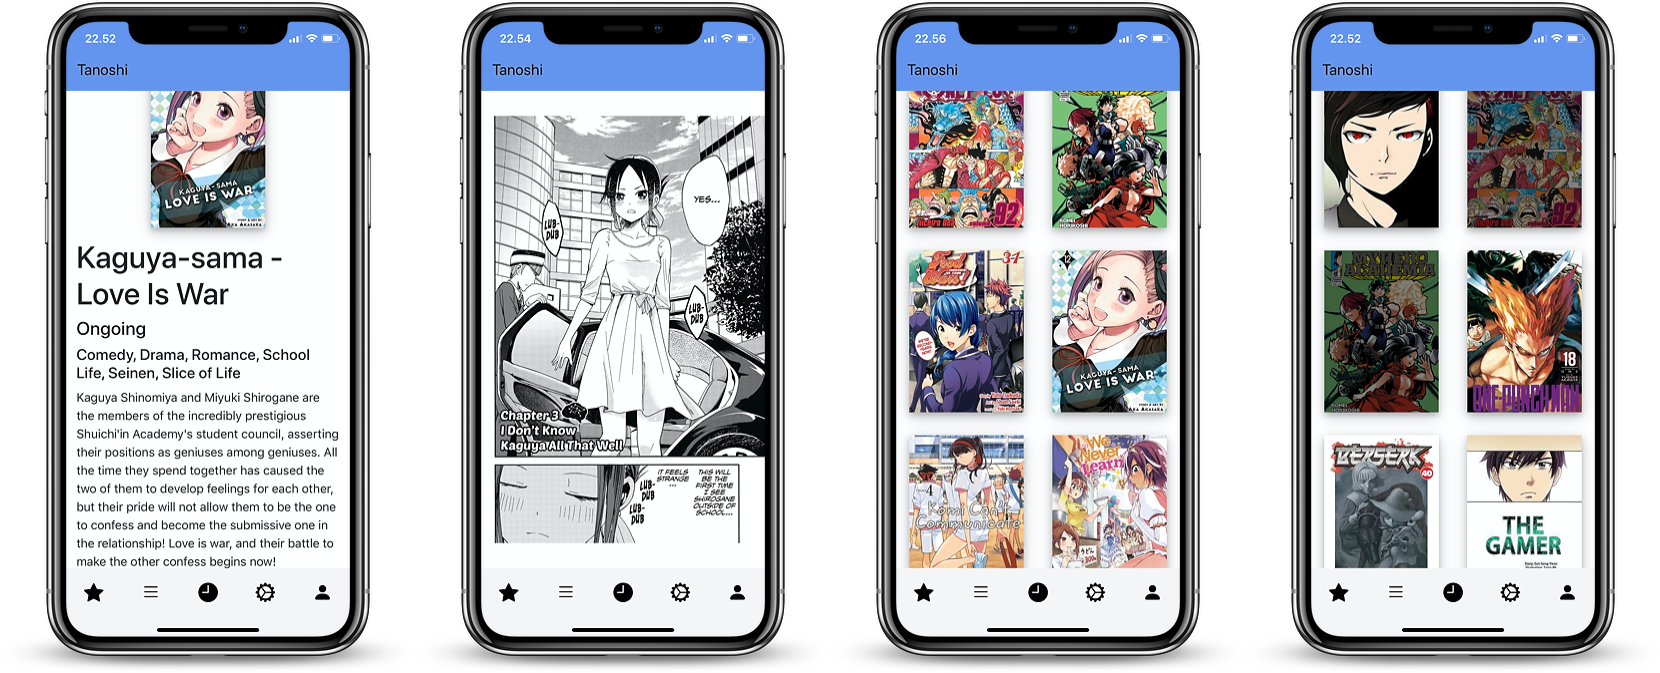
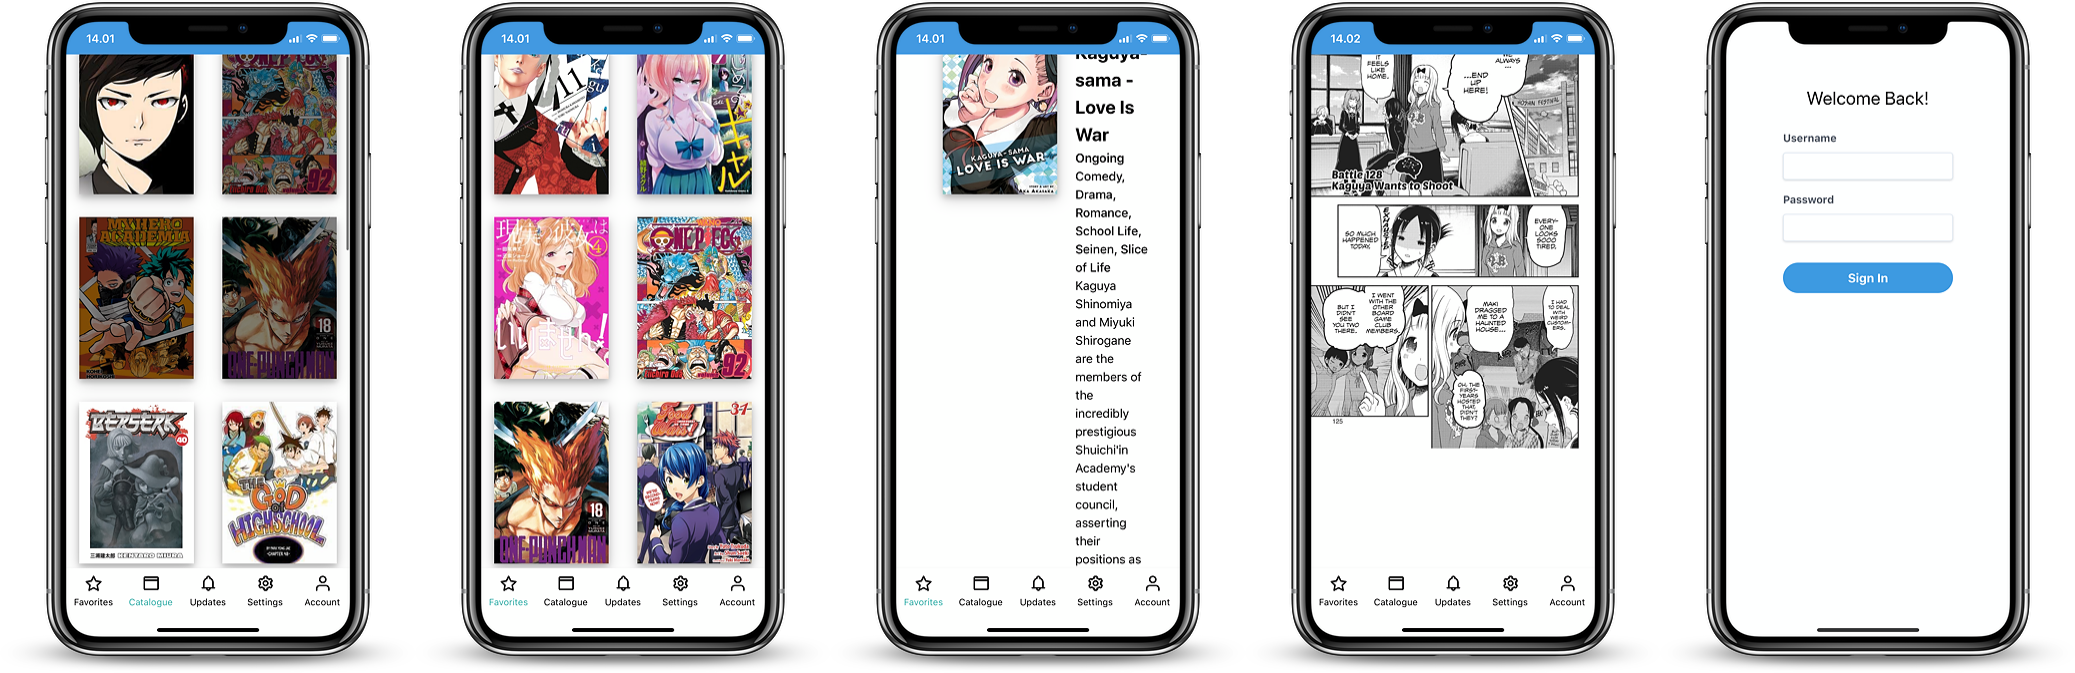
update mobile screenshot

diff --git a/styles.css b/styles.css
@@ -166,3 +166,8 @@ body {
 .safe-bottom {
     padding-bottom: env(safe-area-inset-bottom);
 }
+
+.safe-top {
+    padding-bottom: env(safe-area-inset-top);
+}
+

diff --git a/src/app/catalogue.rs b/src/app/catalogue.rs
@@ -124,6 +124,7 @@ impl Component for Catalogue {
     fn view(&self) -> Html {
         html! {
             <div class="container mx-auto">
+                <Spinner is_active=self.is_fetching />
                 <div class="flex flex-wrap" id="catalogue">
                 { for self.mangas.iter().map(|manga| html!{
                 <Manga
@@ -133,7 +134,6 @@ impl Component for Catalogue {
                     source=self.source.to_owned()
                     is_favorite={if self.favorites.contains(&manga.title.to_owned()){true} else {false}}/>
                 }) }
-                <Spinner is_active=self.is_fetching />
                 </div>
             </div>
         }

diff --git a/src/app/component/spinner.rs b/src/app/component/spinner.rs
@@ -46,7 +46,7 @@ impl Component for Spinner {
     fn view(&self) -> Html {
         html! {
                 <div class={if !self.is_active {"hidden"} else {"w-full h-full fixed block top-0 left-0 bg-white opacity-75 z-10"}}>
-                  <span class="text-green-500 opacity-75 top-1/2 my-0 mx-auto block relative w-0 h-0" style="top: 50%;">
+                  <span class="text-green-500 opacity-75 top-1/2 my-0 mx-auto block relative w-20 h-20" style="top: 50%;">
                     <i class="fas fa-circle-notch fa-spin fa-5x"></i>
                   </span>
                 </div>

diff --git a/src/app/app.rs b/src/app/app.rs
@@ -89,6 +89,7 @@ impl App {
         }
         return html! {
         <div class="w-full h-screen">
+            <div class="block fixed inset-x-0 top-0 z-50 bg-blue-500 safe-top z-50"></div>
             <NavigationBar/>
             <Router<AppRoute, ()>
             render = Router::render(|switch: AppRoute| {
